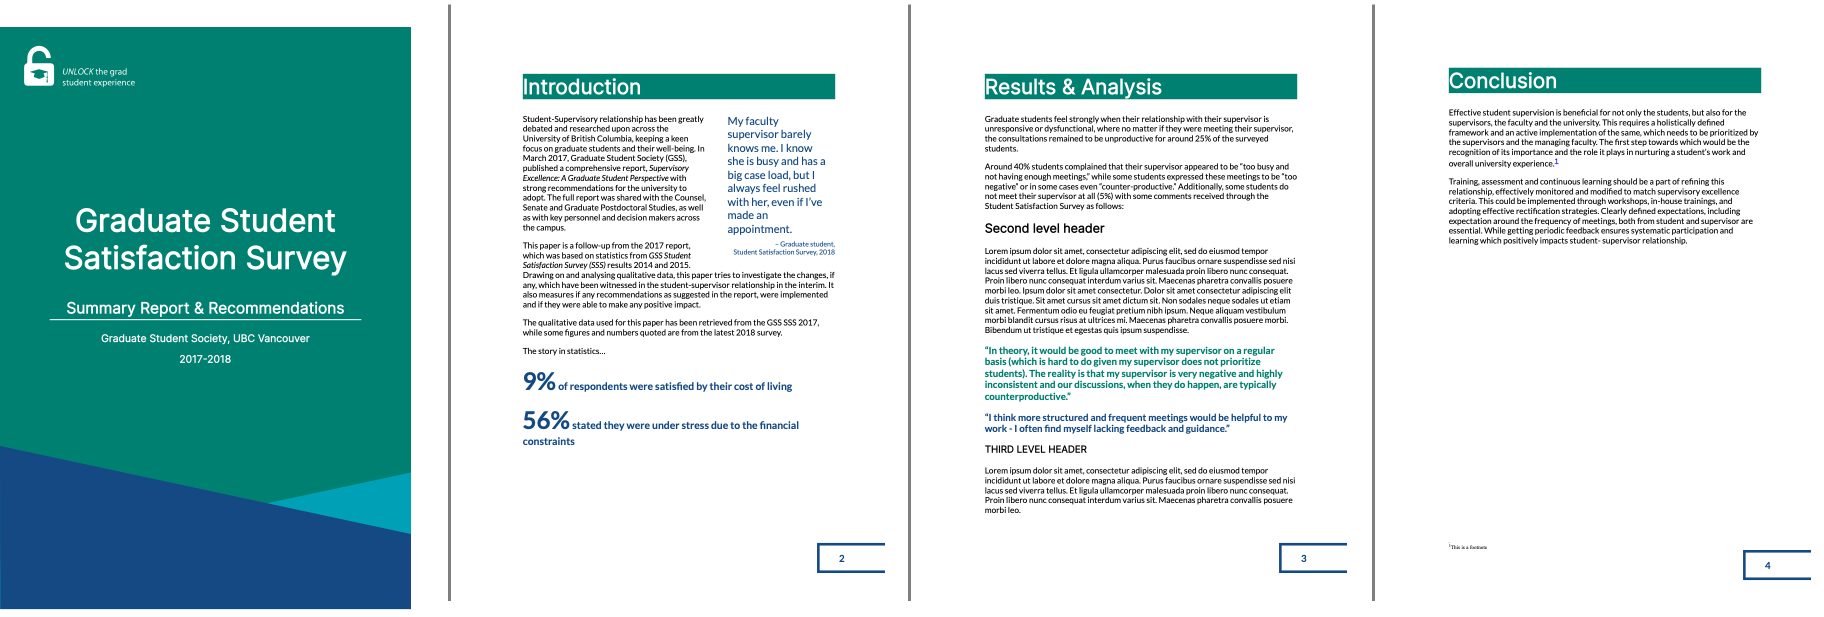
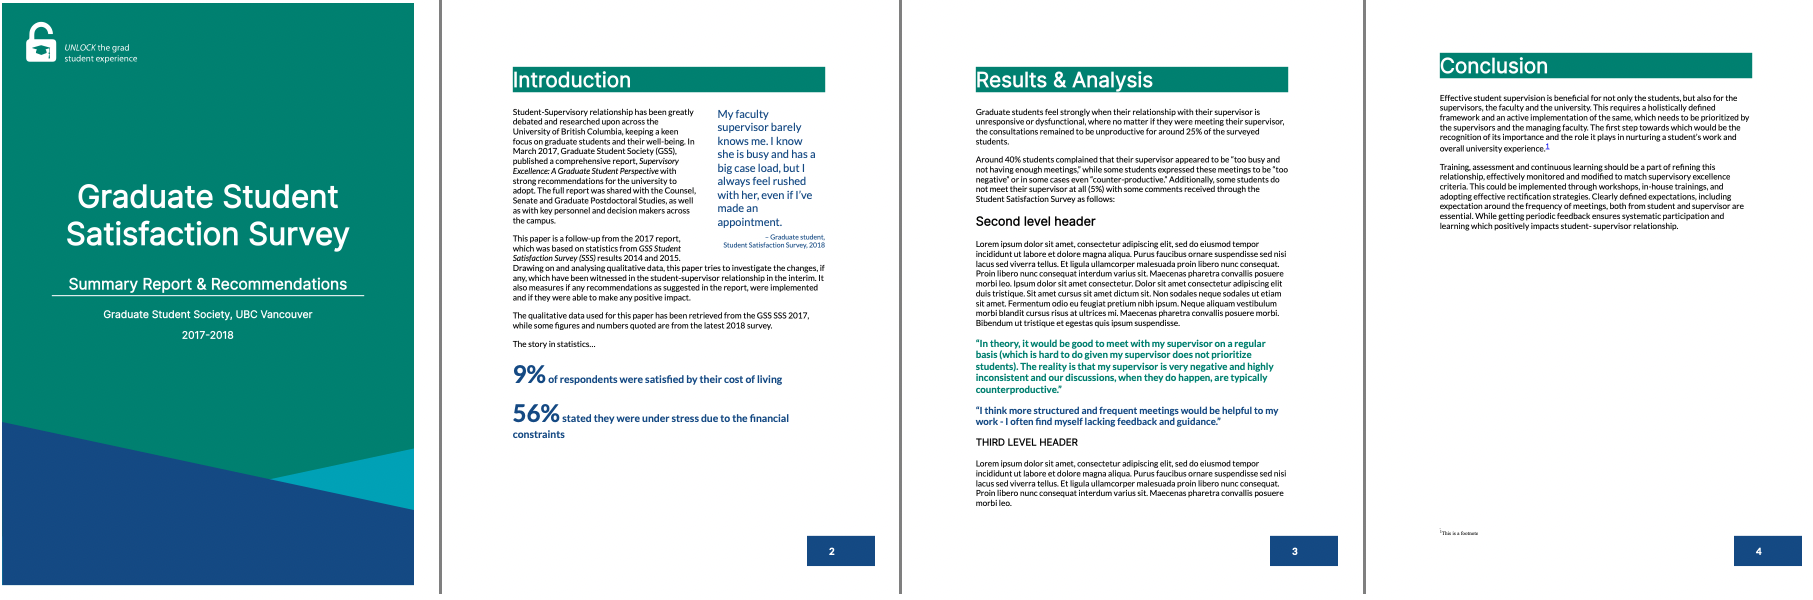
Changed the appearance of page number

diff --git a/inst/resources/css/gss_darkblue.css b/inst/resources/css/gss_darkblue.css
@@ -107,11 +107,10 @@ h3 {
   }
 
 @page {
-
     /* numbering */
     @bottom-right {
         content: counter(page);
-        color: var(--second-color);
+        color: #ffffff;
         border: 5px solid var(--second-color);
         margin-left: 15cm;
         margin-right: -3cm;
@@ -121,6 +120,7 @@ h3 {
         font-size: 14pt;
         font-weight: bold;
         font-family: var(--main-font);
+        background-color: var(--second-color);
     }
 }
 
